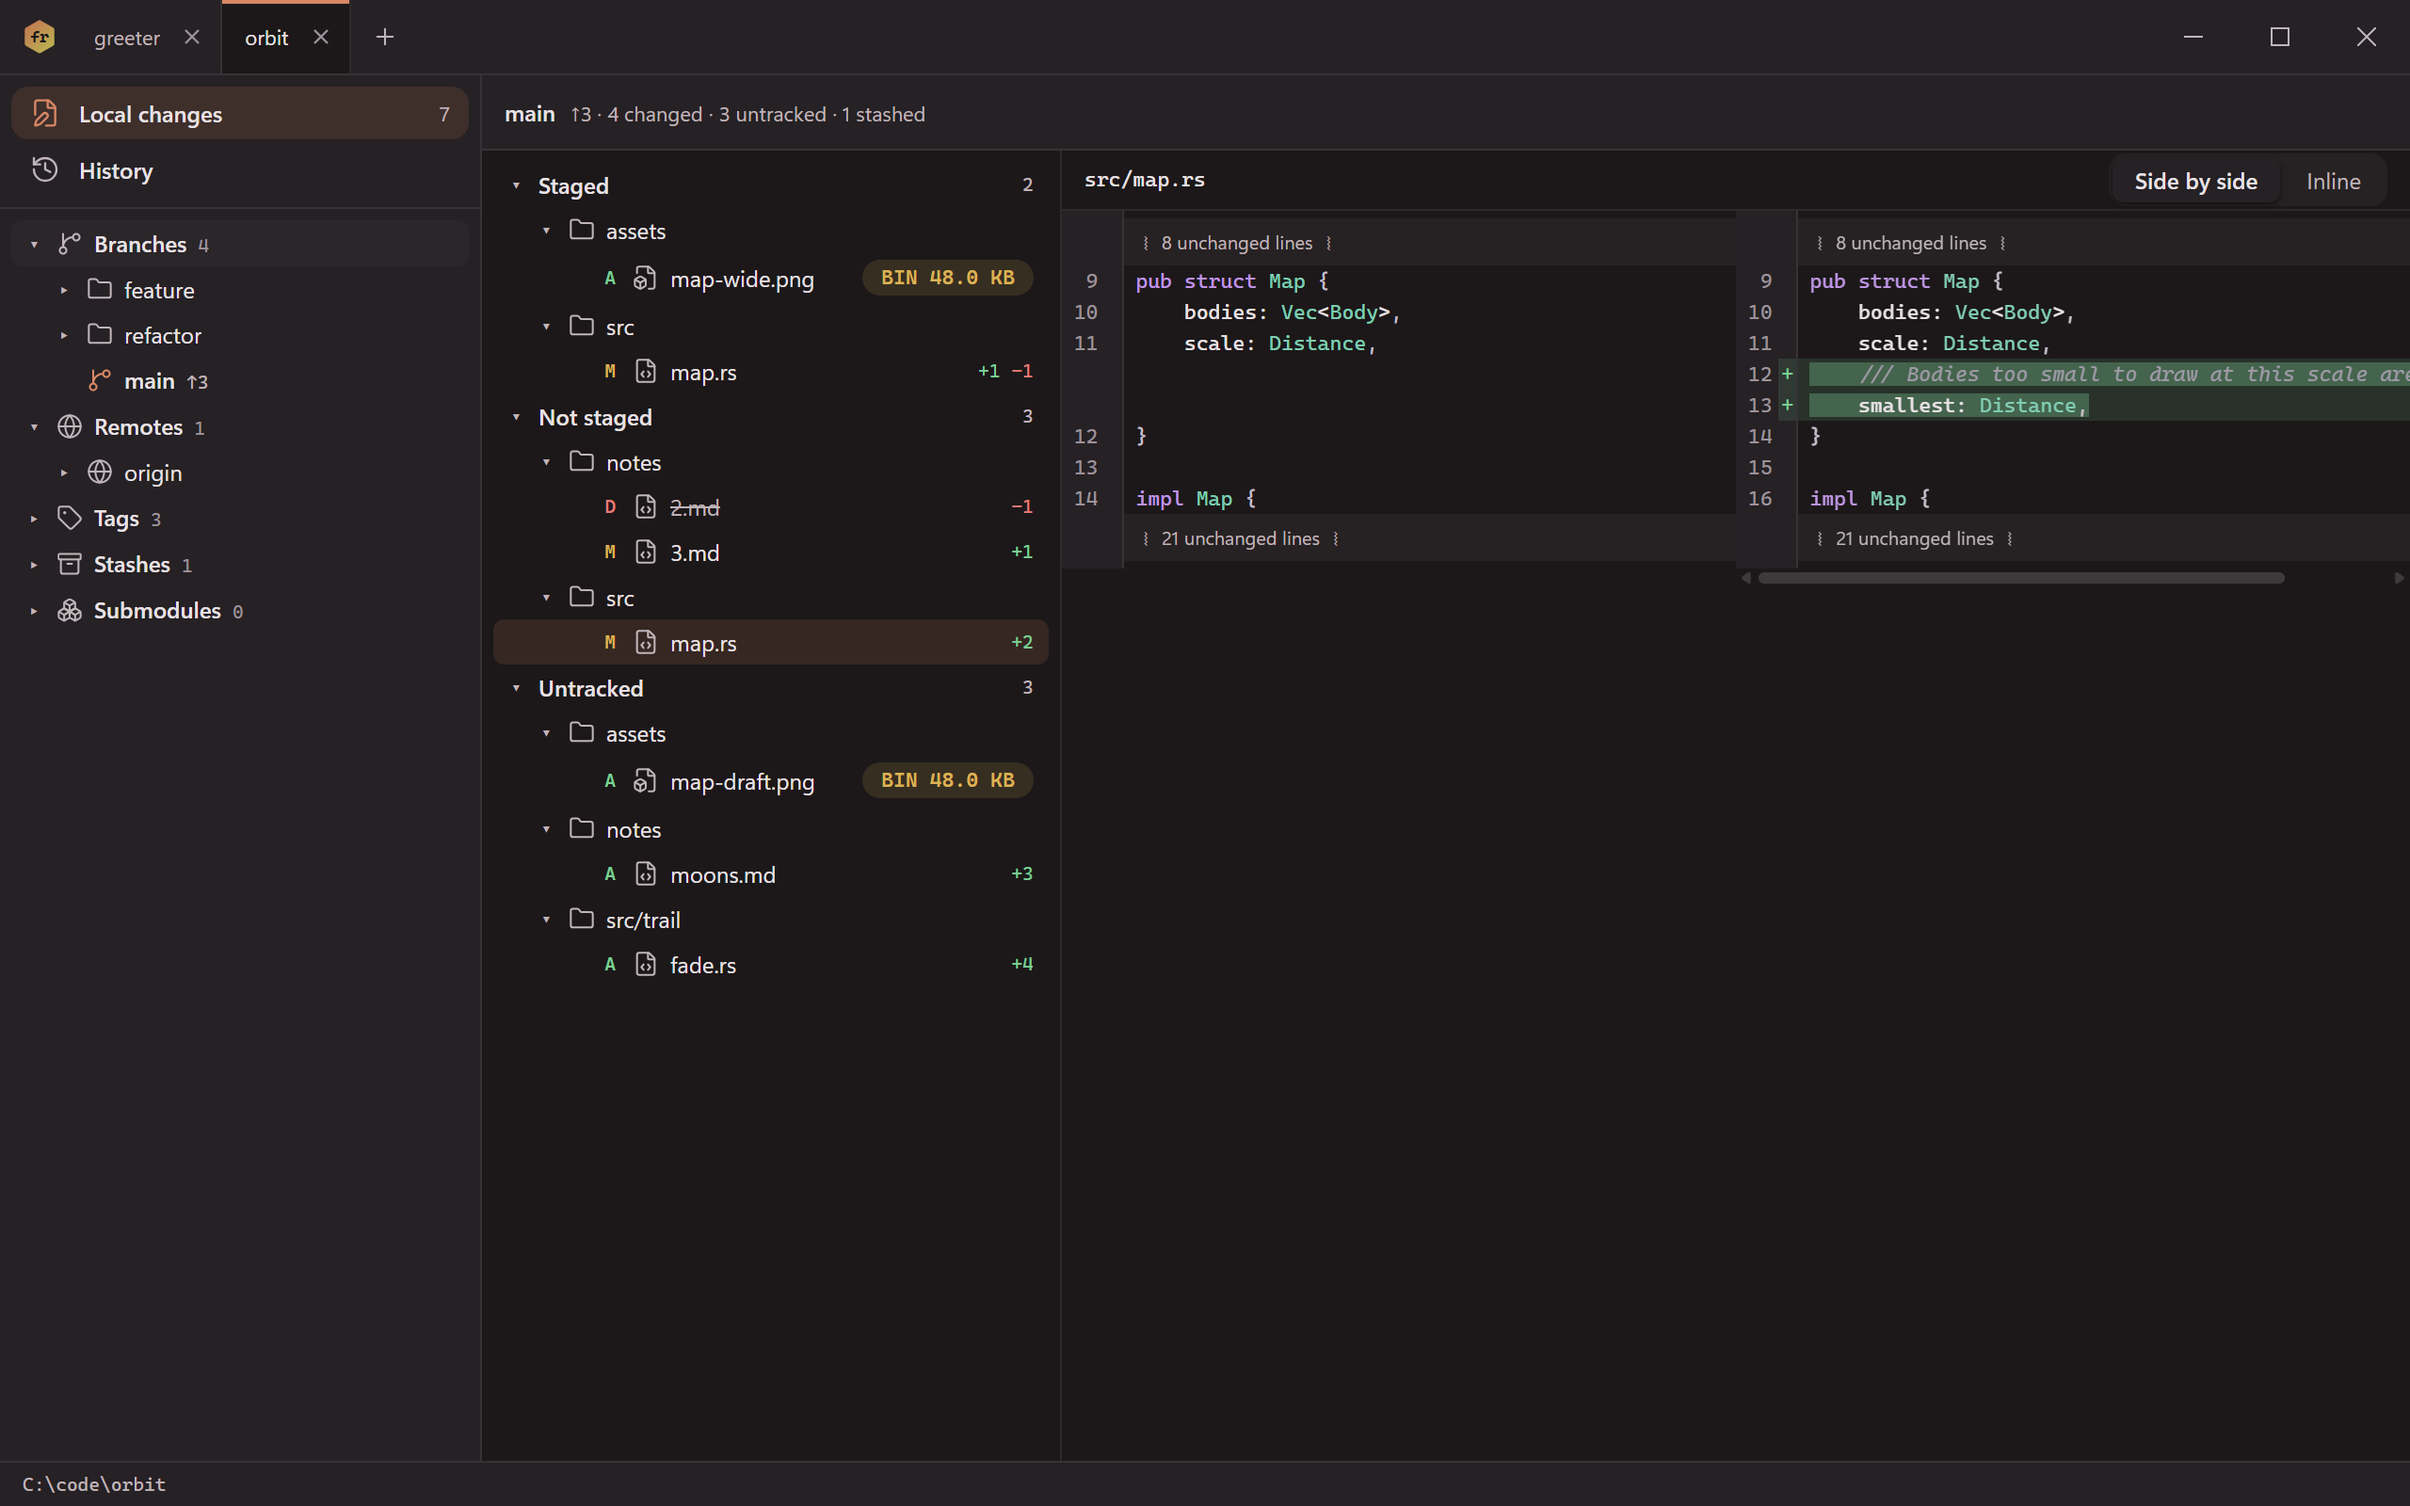
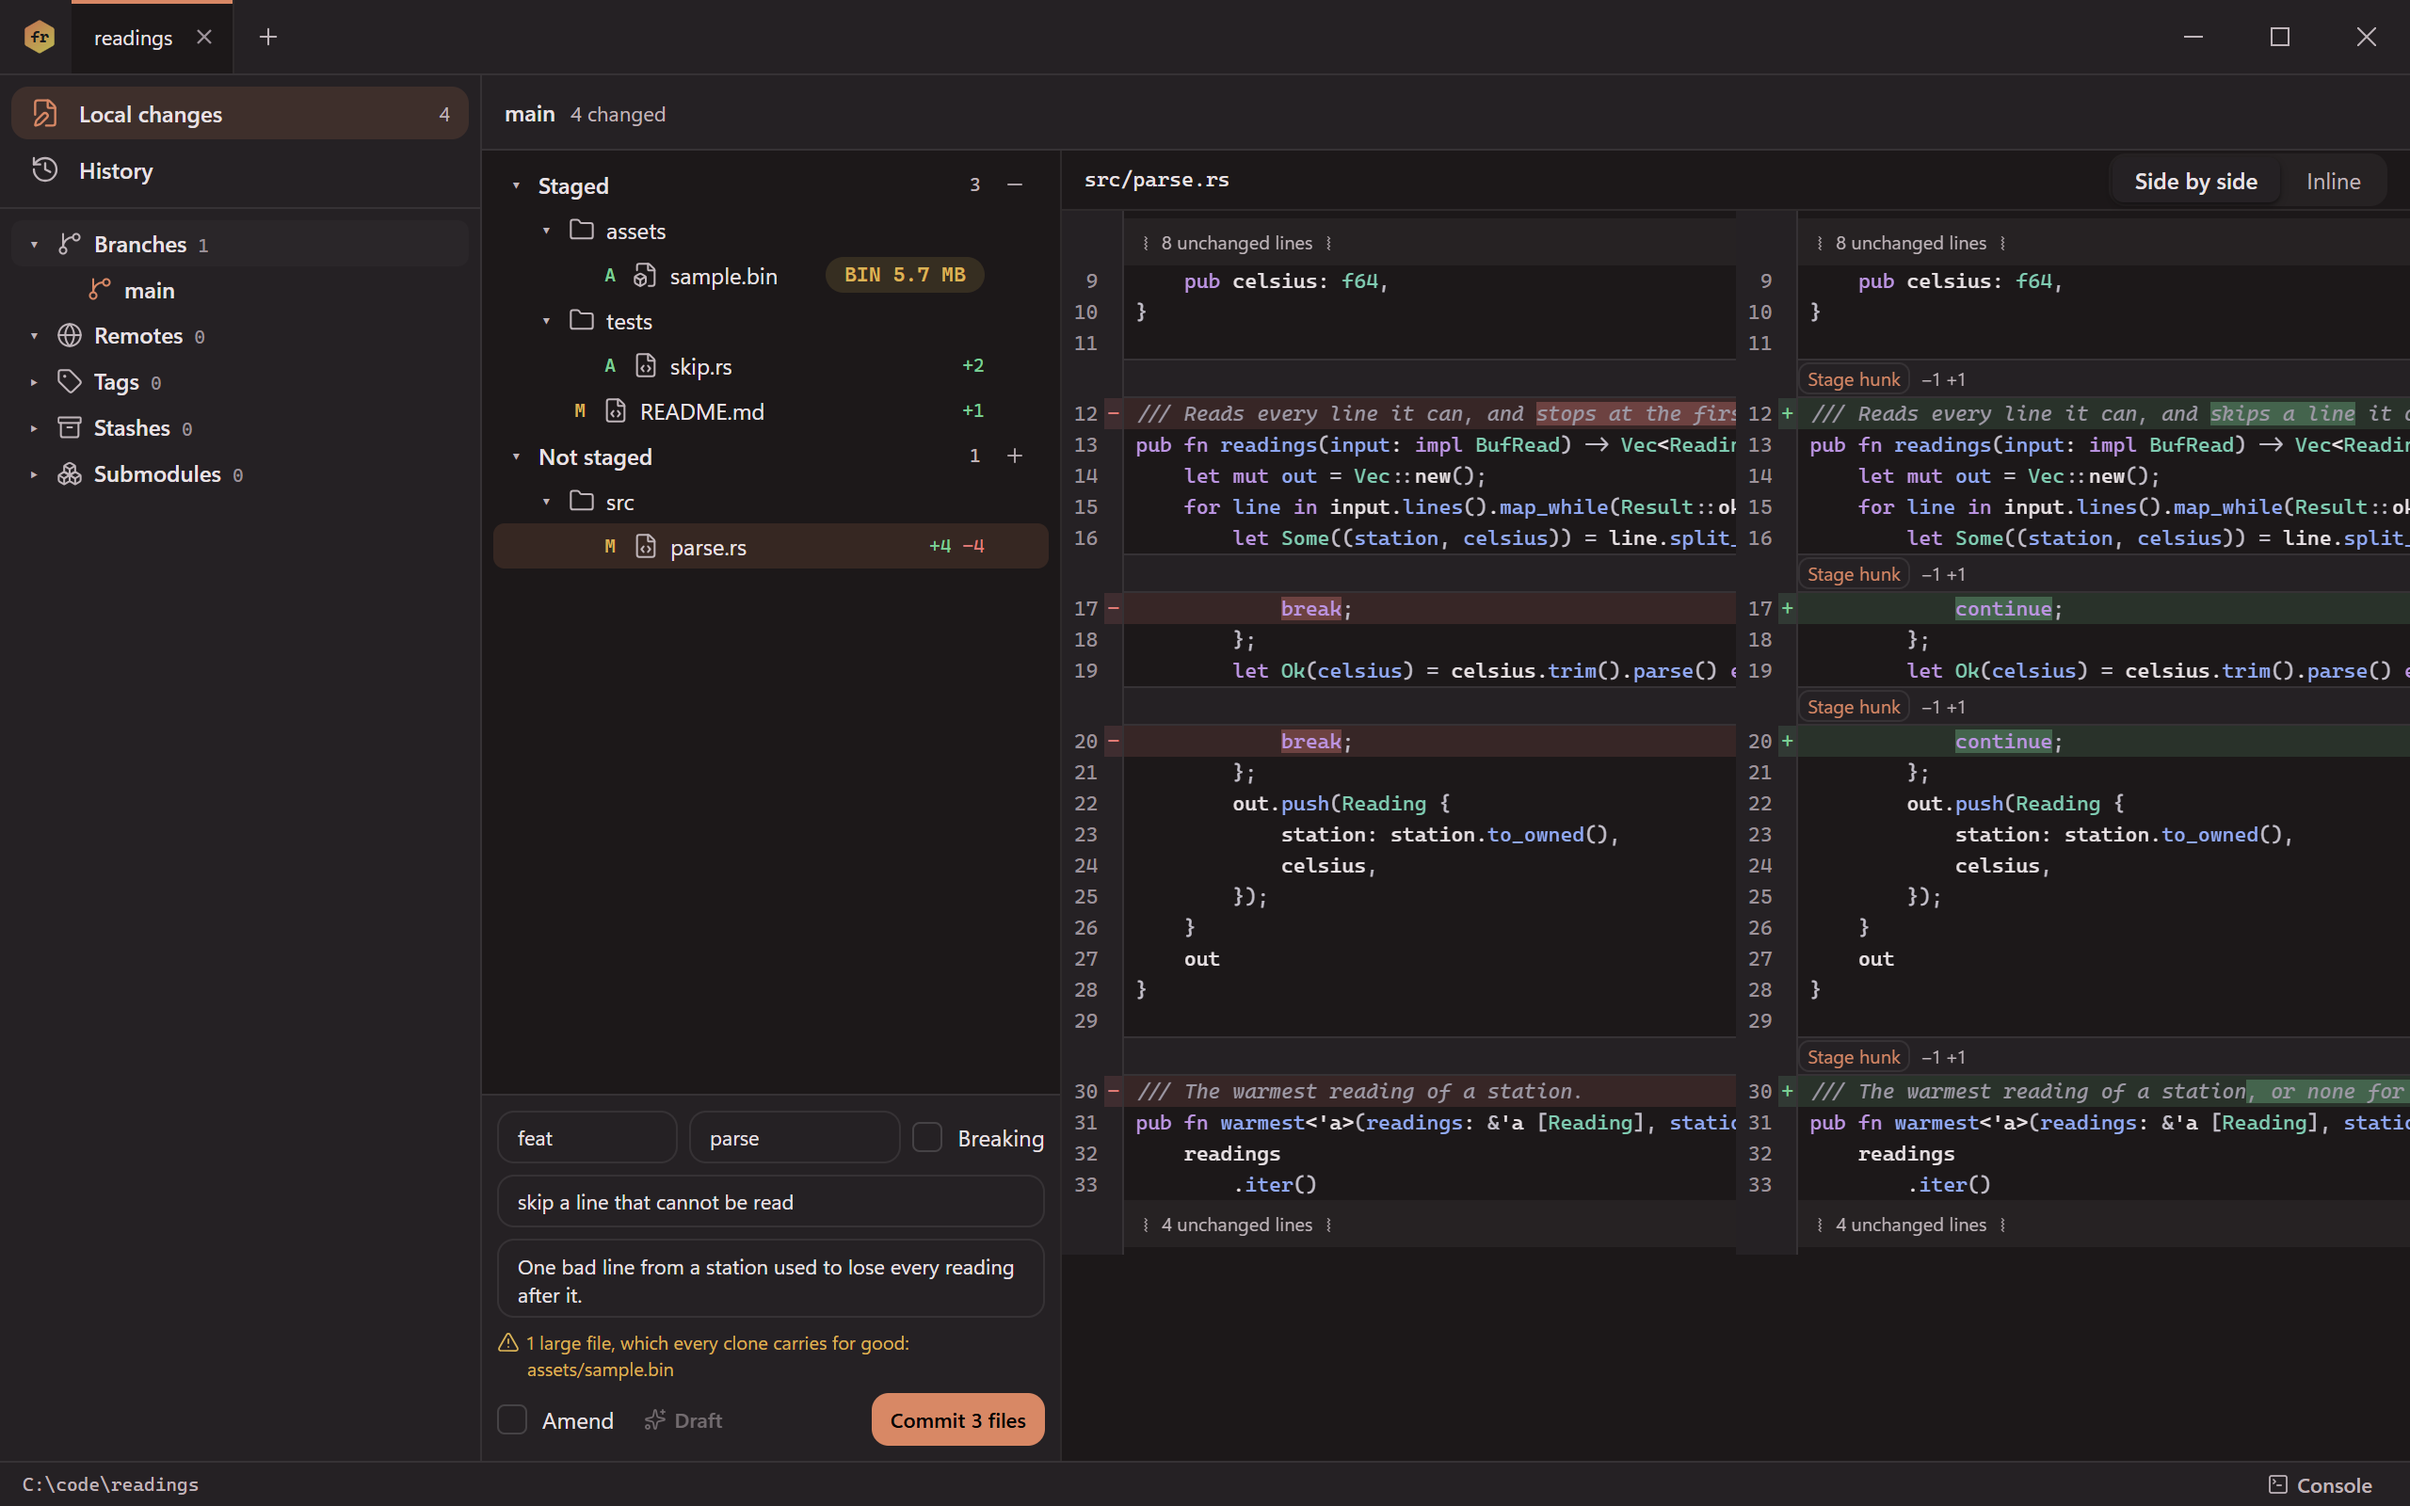
docs: describe committing and the console in the window

diff --git a/docs/src/content/docs/guides/the-window.md b/docs/src/content/docs/guides/the-window.md
@@ -197,7 +197,7 @@ back to the history) shows what differs from `HEAD`, kept up to date as files ar
 saved. Nothing needs refreshing: save a file in your editor and its row and its
 open change follow in a moment.
 
-![Local changes: the lists of the working copy on the left - staged, not staged and untracked, a binary named with its size - and the change of the file chosen, side by side](../../../assets/window-changes.png)
+![Local changes: the lists of the working copy on the left, a binary named with its size, and under them the commit to make, with a warning about a large file; on the right the change of the file chosen, side by side, with a bar and a button above each hunk](../../../assets/window-changes.png)
 
 | List | What it holds |
 | --- | --- |
